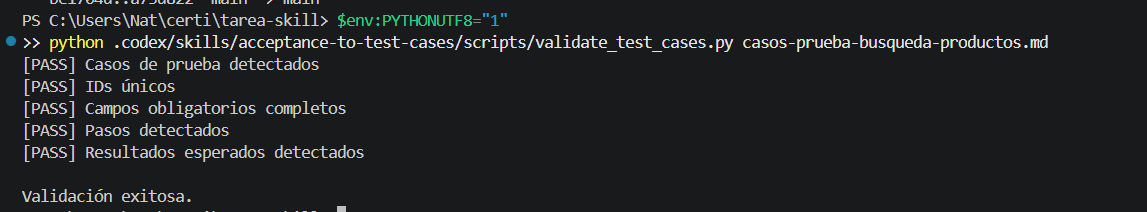
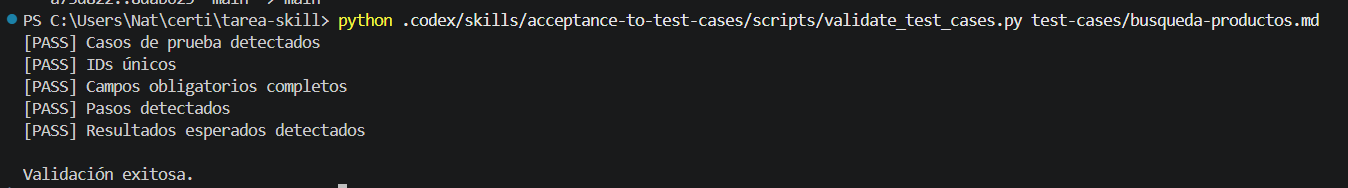
docs: actualizar README y evidencias de la skill

diff --git a/.codex/skills/acceptance-to-test-cases/README.md b/.codex/skills/acceptance-to-test-cases/README.md
@@ -36,76 +36,20 @@ Los casos generados se guardan en `test-cases/`, en la raíz del proyecto. Actua
 
 - Codex con soporte para Agent Skills.
 - Python 3 para ejecutar el validador.
-- No requiere dependencias externas ni conexión a Internet.
-
-La skill está en `.codex/skills/acceptance-to-test-cases/` dentro de este repositorio; no requiere instalación adicional.
+- El script de validación usa Python y no requiere instalar dependencias externas adicionales.
 
 ## Instalación
 
-### Opción A — Usarla en este repositorio
+Clona el repositorio y entra a la carpeta del proyecto:
 
-La skill ya está instalada en este proyecto, en `.codex/skills/acceptance-to-test-cases/`. No hace falta copiarla ni instalarla otra vez. Invócala desde Codex:
-
-```text
-$acceptance-to-test-cases
+```bash
+git clone https://github.com/NatArteaga05/tarea-skill.git
+cd tarea-skill
 ```
 
-### Opción B — Instalarla en otro proyecto
+Luego abre el proyecto en el entorno donde utilizarás Codex. La skill ya está incluida junto con los archivos y recursos que necesita; no hace falta copiar sus archivos por separado.
 
-Copia la carpeta completa `acceptance-to-test-cases` dentro de `.codex/skills/` del proyecto destino. En Windows PowerShell, sustituye la ruta de ejemplo por la ubicación donde tengas esa carpeta:
-
-```powershell
-$origen = "C:\ruta\que\contiene\acceptance-to-test-cases"
-New-Item -ItemType Directory -Force ".codex\skills" | Out-Null
-Copy-Item -Path $origen -Destination ".codex\skills" -Recurse
-```
-
-La estructura quedará así:
-
-```text
-mi-proyecto/
-└── .codex/
-    └── skills/
-        └── acceptance-to-test-cases/
-            ├── SKILL.md
-            ├── README.md
-            ├── assets/
-            ├── references/
-            ├── scripts/
-            └── tests/
-```
-
-Abre ese proyecto en Codex e invoca la skill:
-
-```text
-$acceptance-to-test-cases
-```
-
-### Opción C — Instalarla globalmente
-
-Para usarla en distintos proyectos sin copiarla en cada uno, la ubicación global documentada por Codex es `~/.agents/skills/`. En Windows PowerShell:
-
-```powershell
-$origen = "C:\ruta\que\contiene\acceptance-to-test-cases"
-New-Item -ItemType Directory -Force "$HOME\.agents\skills" | Out-Null
-Copy-Item -Path $origen -Destination "$HOME\.agents\skills" -Recurse
-```
-
-La carpeta quedará en:
-
-```text
-~/.agents/skills/acceptance-to-test-cases/
-```
-
-Después, abre otro proyecto en Codex e invoca:
-
-```text
-$acceptance-to-test-cases
-```
-
-Codex detecta cambios en las skills; si la recién instalada no aparece, vuelve a abrir Codex. Consulta la [documentación de skills de Codex](https://developers.openai.com/codex/build-skills/) para más detalles.
-
-> Copia completa la carpeta `acceptance-to-test-cases`; no copies solo `SKILL.md`, porque la skill también utiliza `assets/`, `references/` y `scripts/`.
+Para ejecutarla, continúa con la sección «Cómo usarla».
 
 ## Cómo usarla
 
@@ -156,7 +100,7 @@ Los casos concretos dependerán del análisis de la skill y no se presuponen aqu
 ```mermaid
 flowchart TD
     A[Requisito] --> B[Analizar contexto]
-    B --> C[Consultar guidelines y plantilla]
+    B --> C[Consultar pautas y plantilla]
     C --> D{¿El requisito está claro?}
     D -- No --> E[Pedir aclaración]
     E --> D
